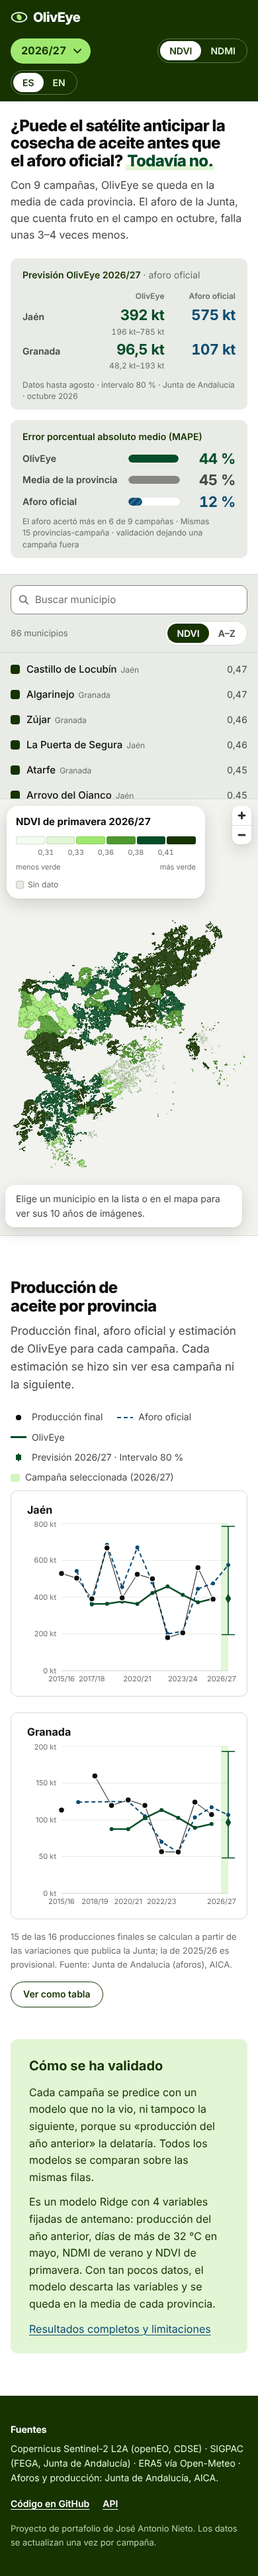
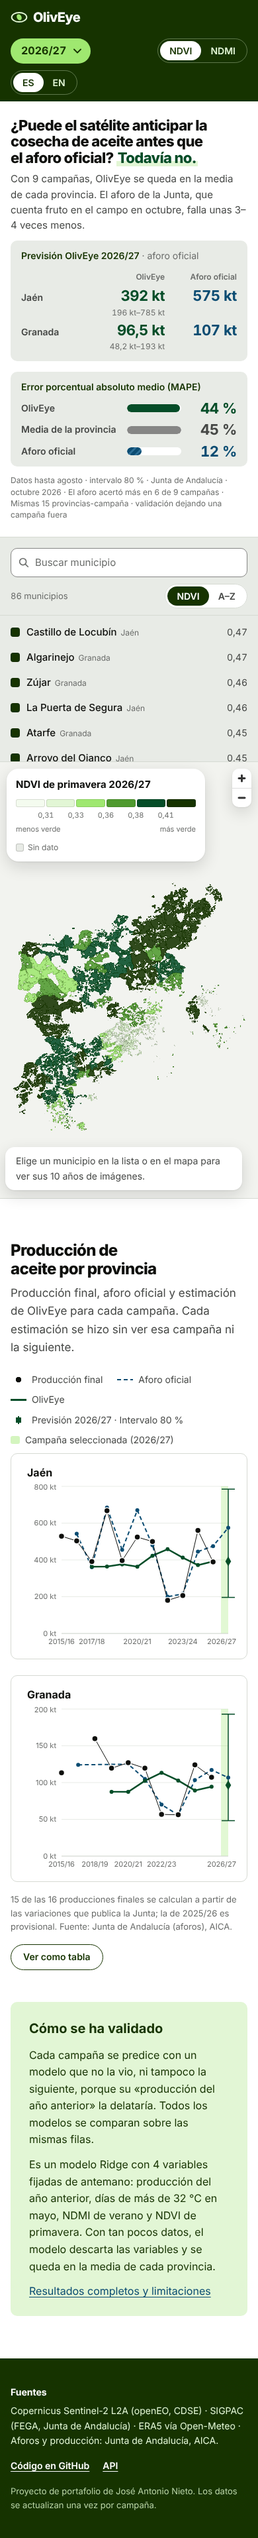
fix(web): full-height map, tighter verdict band, compact legend with series

Changed region(s): [[0.0, 0.0, 1.0, 0.9943], [0.8308, 0.4039, 0.8615, 0.435]]

diff --git a/web/components/Legend.tsx b/web/components/Legend.tsx
@@ -9,10 +9,12 @@ interface Props {
   campaign: string;
   index: IndexKey;
   breaks: number[];
+  /** Hide the explanations while the series panel is open, so the two never overlap. */
+  compact?: boolean;
 }
 
 /** Floating map legend: what the colour means, with the exact palette and class limits. */
-export function Legend({ lang, campaign, index, breaks }: Props) {
+export function Legend({ lang, campaign, index, breaks, compact = false }: Props) {
   const ramp = RAMPS[index];
   const isNdvi = index === "ndvi_spring";
   return (
@@ -20,7 +22,7 @@ export function Legend({ lang, campaign, index, breaks }: Props) {
       <p className={styles.title}>
         {t(lang, isNdvi ? "ndviName" : "ndmiName")} <span className="num">{campaign}</span>
       </p>
-      <p className={styles.help}>{t(lang, isNdvi ? "ndviHelp" : "ndmiHelp")}</p>
+      {!compact && <p className={styles.help}>{t(lang, isNdvi ? "ndviHelp" : "ndmiHelp")}</p>}
       {breaks.length > 0 && (
         <div
           className={styles.scale}
@@ -62,7 +64,7 @@ export function Legend({ lang, campaign, index, breaks }: Props) {
       <p className={styles.noData}>
         <span style={{ background: NO_DATA }} aria-hidden="true" /> {t(lang, "noData")}
       </p>
-      <p className={styles.note}>{t(lang, "mapNote")}</p>
+      {!compact && <p className={styles.note}>{t(lang, "mapNote")}</p>}
     </div>
   );
 }

diff --git a/web/components/Verdict.tsx b/web/components/Verdict.tsx
@@ -93,9 +93,6 @@ export function Verdict({ lang, summary, forecast }: Props) {
                 ))}
               </tbody>
             </table>
-            <p className={styles.note}>
-              {t(lang, "forecastNote")} · {t(lang, "aforoNote")}
-            </p>
           </figure>
 
           <figure className={styles.tile}>
@@ -118,18 +115,18 @@ export function Verdict({ lang, summary, forecast }: Props) {
                 </div>
               ))}
             </dl>
-            <p className={styles.note}>
-              {ridge
-                ? t(lang, "aforoCloser", {
-                    n: ridge.campaigns - ridge.campaign_wins_vs_aforo,
-                    total: ridge.campaigns,
-                  })
-                : null}
-              {" · "}
-              {t(lang, "errorNote")}
-            </p>
           </figure>
         </div>
+        <p className={styles.caption}>
+          {t(lang, "forecastNote")} · {t(lang, "aforoNote")} ·{" "}
+          {ridge
+            ? t(lang, "aforoCloser", {
+                n: ridge.campaigns - ridge.campaign_wins_vs_aforo,
+                total: ridge.campaigns,
+              })
+            : null}{" "}
+          · {t(lang, "errorNote")}
+        </p>
       </div>
     </section>
   );

diff --git a/web/components/Verdict.module.css b/web/components/Verdict.module.css
@@ -5,15 +5,15 @@
 .inner {
   max-width: 1440px;
   margin: 0 auto;
-  padding: 22px var(--gutter) 20px;
+  padding: 18px var(--gutter) 14px;
   display: grid;
   grid-template-columns: minmax(0, 1.05fr) minmax(0, 1.4fr);
-  gap: clamp(24px, 4vw, 56px);
+  gap: 12px clamp(24px, 4vw, 56px);
   align-items: center;
 }
 
 .question {
-  font-size: clamp(24px, 2.2vw, 32px);
+  font-size: clamp(22px, 2vw, 28px);
   font-weight: 800;
   line-height: 1.12;
   letter-spacing: -0.03em;
@@ -27,9 +27,9 @@
 }
 
 .detail {
-  margin-top: 10px;
-  max-width: 56ch;
-  font-size: 16px;
+  margin-top: 8px;
+  max-width: 58ch;
+  font-size: 15px;
   line-height: 1.55;
 }
 
@@ -41,7 +41,7 @@
 
 .tile {
   margin: 0;
-  padding: 14px 18px 12px;
+  padding: 12px 16px 10px;
   background: var(--fog);
   border-radius: var(--radius-card);
   display: flex;
@@ -87,7 +87,7 @@
 }
 
 .value {
-  font-size: 24px;
+  font-size: 22px;
   font-weight: 700;
   color: var(--spruce);
   letter-spacing: -0.02em;
@@ -192,4 +192,11 @@
   .value {
     font-size: 22px;
   }
+}
+
+.caption {
+  grid-column: 1 / -1;
+  font-size: 12px;
+  line-height: 1.45;
+  color: var(--muted);
 }

diff --git a/web/components/Workbench.tsx b/web/components/Workbench.tsx
@@ -156,7 +156,13 @@ export function Workbench({
           onFeatures={onFeatures}
           onSelect={select}
         />
-        <Legend lang={lang} campaign={campaign} index={index} breaks={breaks} />
+        <Legend
+          lang={lang}
+          campaign={campaign}
+          index={index}
+          breaks={breaks}
+          compact={selected !== null}
+        />
         <SeriesPanel
           lang={lang}
           campaign={campaign}

diff --git a/web/components/Workbench.module.css b/web/components/Workbench.module.css
@@ -1,7 +1,7 @@
 .workbench {
   display: grid;
   grid-template-columns: 320px minmax(0, 1fr);
-  height: max(560px, calc(100vh - var(--bar-height) - 276px));
+  height: max(560px, calc(100vh - var(--bar-height)));
   border-bottom: 1px solid var(--rule);
   scroll-margin-top: var(--bar-height);
 }
